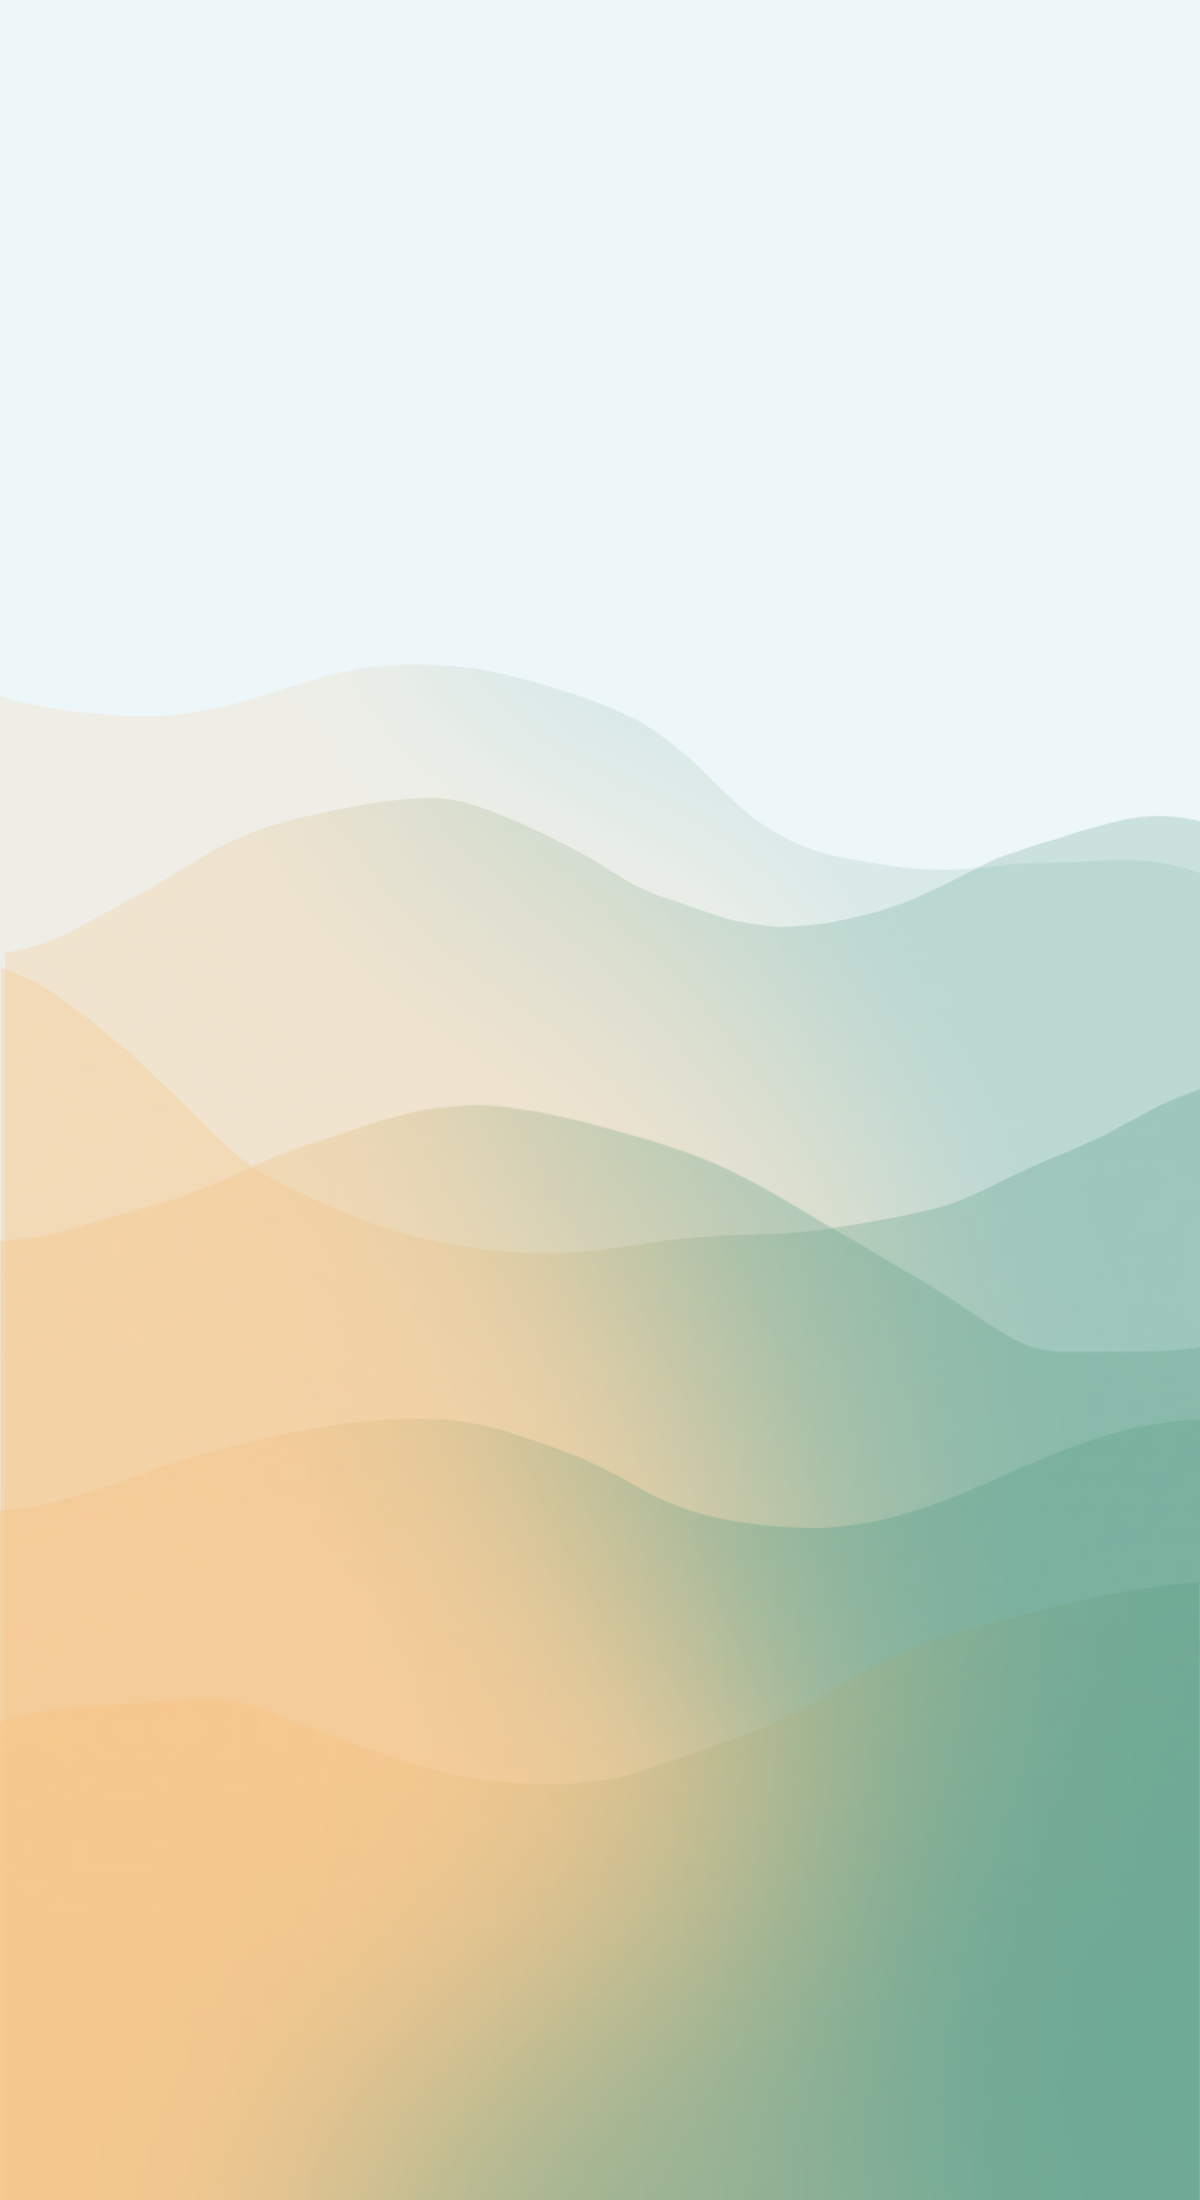
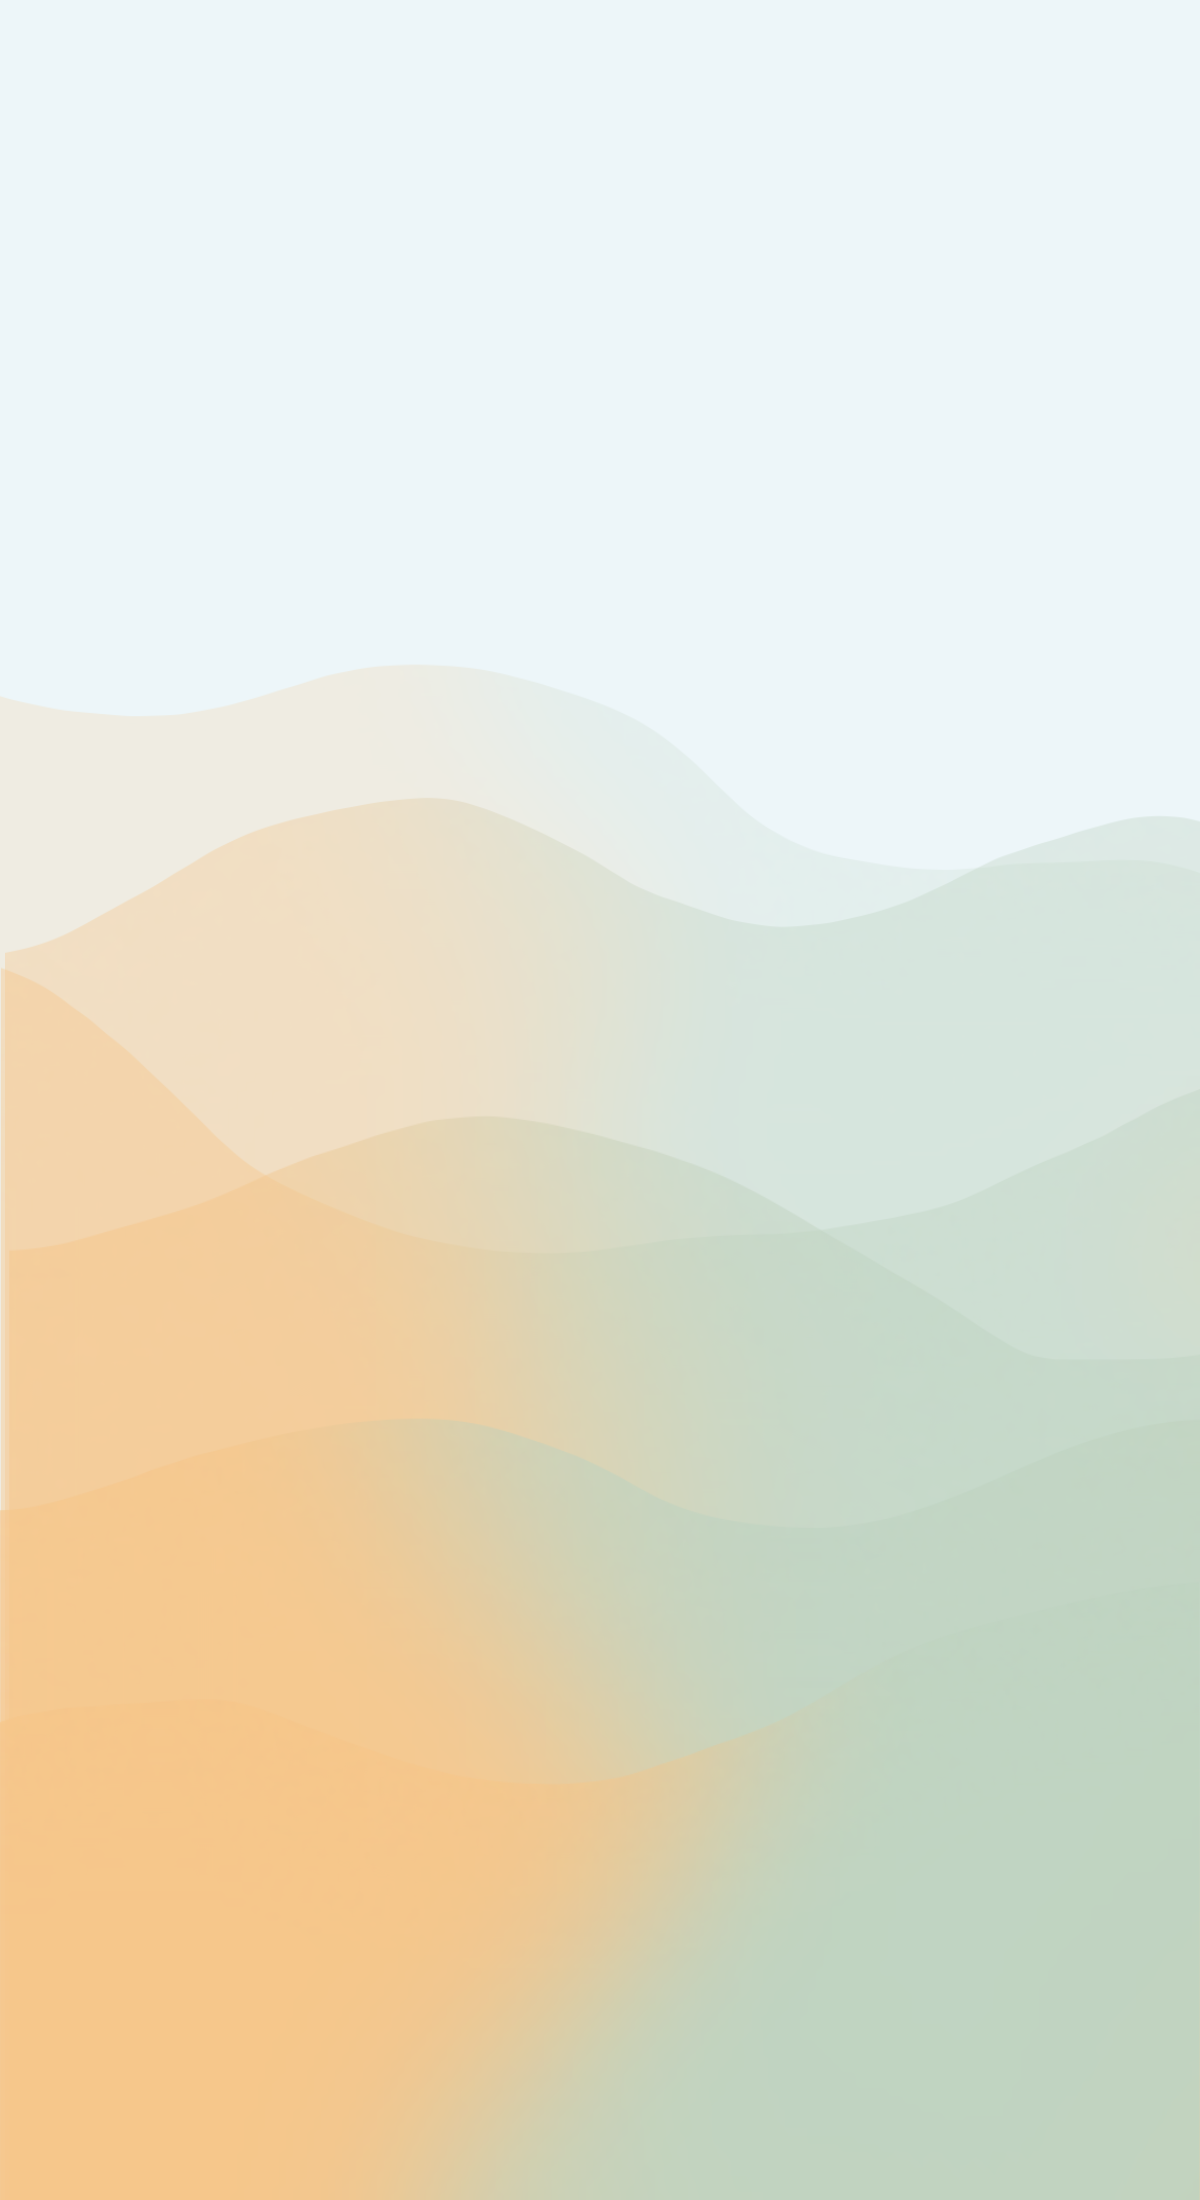
UI jatkoa kyselyn luomiseen

Changed region(s): [[0.2467, 0.3709, 1.0, 1.0], [0.4625, 0.4945, 0.555, 0.5255]]

diff --git a/bachelors-project-2021/Prototype/Prototype/LuoKysely/LuoKyselyToimenpiteet.xaml b/bachelors-project-2021/Prototype/Prototype/LuoKysely/LuoKyselyToimenpiteet.xaml
@@ -24,7 +24,24 @@ along with Juttunurkka.  If not, see <https://www.gnu.org/licenses/>.
              Title="Juttunurkka"
              >
 
-    <StackLayout Spacing="40">
+    <AbsoluteLayout
+        HorizontalOptions="FillAndExpand"
+        VerticalOptions="FillAndExpand"
+        Padding="0">
+
+        <!-- TAUSTAKUVA SIVULLE -->
+        <Image
+            Source="background2.png"
+            Aspect="AspectFill"
+            HorizontalOptions="Fill"
+            VerticalOptions="Fill"
+            AbsoluteLayout.LayoutBounds="0, 0, 1, 1"
+            AbsoluteLayout.LayoutFlags="All" />
+
+        <StackLayout
+            AbsoluteLayout.LayoutBounds="0, 0, 1, 1"
+            AbsoluteLayout.LayoutFlags="All"
+            Spacing="40">
         <StackLayout Orientation="Horizontal"
                      VerticalOptions="Start"
                      HorizontalOptions="CenterAndExpand"
@@ -36,8 +53,9 @@ along with Juttunurkka.  If not, see <https://www.gnu.org/licenses/>.
               HorizontalOptions="CenterAndExpand"
               HorizontalTextAlignment="Center"
               FontAttributes="Bold"
+              FontFamily="LineSeedBold"
               FontSize="30"
-              TextColor="#4383EF" 
+              TextColor="#4383EF"
               Margin="0,40,0,0"/>
            
             <Image Source="Emoji2.jpg"
@@ -52,6 +70,7 @@ along with Juttunurkka.  If not, see <https://www.gnu.org/licenses/>.
             VerticalOptions="Start" 
             HorizontalOptions="CenterAndExpand"
             HorizontalTextAlignment="Center"
+            FontFamily="LineSeedBold"
             FontSize="25"
             TextColor="Black"   
             Margin="0,-20,0,0"
@@ -67,9 +86,10 @@ along with Juttunurkka.  If not, see <https://www.gnu.org/licenses/>.
         <Button Text="Vaihtoehdot"
             TextColor="black"
             FontAttributes="Bold"
+            FontFamily="LineSeedBold"
             VerticalOptions="CenterAndExpand" 
             HorizontalOptions="CenterAndExpand" 
-            BorderColor="#4383EF"
+            BorderColor="#bfd3c1"
             BackgroundColor="Transparent"
             FontSize="19"
             Margin="20,0,10,-40"
@@ -89,7 +109,7 @@ along with Juttunurkka.  If not, see <https://www.gnu.org/licenses/>.
             HeightRequest="200"
             Padding="1"
             BackgroundColor="Transparent"
-            BorderColor="#4383EF"
+            BorderColor="#bfd3c1"
             CornerRadius="10"
             IsVisible="true">
 
@@ -121,6 +141,7 @@ along with Juttunurkka.  If not, see <https://www.gnu.org/licenses/>.
                                             <Label 
                                                     Text="{Binding .}" 
                                                     TextColor="Black"
+                                                    FontFamily="LineSeedBold"
                                                     FontSize="20"
                                                     Margin="5,10,0,5"
                                                 />
@@ -161,6 +182,7 @@ along with Juttunurkka.  If not, see <https://www.gnu.org/licenses/>.
                 Clicked="EdellinenButtonClicked"
                 VerticalOptions="EndAndExpand"
                 HorizontalOptions="CenterAndExpand" 
+                FontFamily="LineSeedBold"
                 FontSize="19"
                 Margin="20,0,10,40"
                 CornerRadius="10"
@@ -173,6 +195,7 @@ along with Juttunurkka.  If not, see <https://www.gnu.org/licenses/>.
                 Clicked="JatkaButtonClicked" 
                 VerticalOptions="EndAndExpand" 
                 HorizontalOptions="CenterAndExpand" 
+                FontFamily="LineSeedBold"
                 FontSize="19"
                 Margin="20,0,10,40"
                 CornerRadius="10"
@@ -181,6 +204,7 @@ along with Juttunurkka.  If not, see <https://www.gnu.org/licenses/>.
             />
         </Grid>
 
-    </StackLayout>
+        </StackLayout>
+    </AbsoluteLayout>
 
 </ContentPage>

diff --git a/bachelors-project-2021/Prototype/Prototype/LuoKysely/LuoKyselyEmojit.xaml b/bachelors-project-2021/Prototype/Prototype/LuoKysely/LuoKyselyEmojit.xaml
@@ -25,7 +25,25 @@ along with Juttunurkka.  If not, see <https://www.gnu.org/licenses/>.
              Title="Juttunurkka">
 
 
-    <StackLayout VerticalOptions="FillAndExpand" Spacing="50" Padding="0,100,0,0">
+    <AbsoluteLayout
+        HorizontalOptions="FillAndExpand"
+        VerticalOptions="FillAndExpand">
+
+        <!-- TAUSTAKUVA SIVULLE -->
+        <Image
+            Source="background2.png"
+            Aspect="AspectFill"
+            HorizontalOptions="Fill"
+            VerticalOptions="Fill"
+            AbsoluteLayout.LayoutBounds="0, 0, 1, 1"
+            AbsoluteLayout.LayoutFlags="All" />
+
+        <StackLayout
+            AbsoluteLayout.LayoutBounds="0, 0, 1, 1"
+            AbsoluteLayout.LayoutFlags="All"
+            VerticalOptions="FillAndExpand"
+            Spacing="50"
+            Padding="0,100,0,0">
 
         <Label
             Text="Valitse hymiöt"
@@ -35,6 +53,7 @@ along with Juttunurkka.  If not, see <https://www.gnu.org/licenses/>.
             FontAttributes="Bold"
             FontSize="35"
             TextColor="Black" 
+            FontFamily="LineSeedBold"
             Margin="0,0,0,0"
         />
 
@@ -45,7 +64,6 @@ along with Juttunurkka.  If not, see <https://www.gnu.org/licenses/>.
             <CollectionView.ItemTemplate>
                 <DataTemplate>
                     <Frame Padding="15"
-                           BorderColor="#4383EF"
                            CornerRadius="5"
                            Margin="10,10,10,10">   
                         <Grid RowDefinitions="Auto"
@@ -87,10 +105,11 @@ along with Juttunurkka.  If not, see <https://www.gnu.org/licenses/>.
                 Clicked="EdellinenButtonClicked"
                 VerticalOptions="EndAndExpand"
                 HorizontalOptions="CenterAndExpand" 
-                BackgroundColor="#feba4f"
+                BackgroundColor="#bfd3c1"
                 TextColor="Black"
                 BorderColor="Transparent"
                 FontSize="19"
+                FontFamily="LineSeedBold"
                 Margin="20,0,10,40"
                 CornerRadius="10"
                 HeightRequest="50"
@@ -105,8 +124,9 @@ along with Juttunurkka.  If not, see <https://www.gnu.org/licenses/>.
                 IsEnabled="false"
                 VerticalOptions="EndAndExpand" 
                 HorizontalOptions="CenterAndExpand" 
-                BackgroundColor="#feba4e"
+                BackgroundColor="#bfd3c1"
                 TextColor="Black"
+                FontFamily="LineSeedBold"
                 FontAttributes="Bold"
                 BorderColor="Transparent"
                 FontSize="19"
@@ -118,5 +138,6 @@ along with Juttunurkka.  If not, see <https://www.gnu.org/licenses/>.
             />
 
         </Grid>
-    </StackLayout>
+        </StackLayout>
+    </AbsoluteLayout>
 </ContentPage>

diff --git a/bachelors-project-2021/Prototype/Prototype/TallennetutKyselyt/TallennetutKyselyt.xaml b/bachelors-project-2021/Prototype/Prototype/TallennetutKyselyt/TallennetutKyselyt.xaml
@@ -15,7 +15,7 @@ This file is part of "Juttunurkka".
     <Grid VerticalOptions="FillAndExpand" HorizontalOptions="FillAndExpand">
 
         <!-- TAUSTAKUVA -->
-        <Image Source="background2.png"
+        <Image Source="background3.png"
                Aspect="AspectFill"
                VerticalOptions="FillAndExpand"
                HorizontalOptions="FillAndExpand"/>
@@ -23,14 +23,14 @@ This file is part of "Juttunurkka".
         <!-- PÄÄSISÄLTÖ -->
         <StackLayout Spacing="15" Padding="20,20,20,20" VerticalOptions="FillAndExpand">
 
-            <!-- NAVIGATION / TAKAS-NAPPI JA OTSIKKO -->
+            <!-- NAVIGATION / TAKAISIN-NAPPI JA OTSIKKO -->
             <Grid HeightRequest="40">
                 <Grid.ColumnDefinitions>
                     <ColumnDefinition Width="Auto"/>
                     <ColumnDefinition Width="*"/>
                 </Grid.ColumnDefinitions>
 
-                <!-- TAKAS-NAPPI vasemmassa yläkulmassa -->
+                <!-- TAKAISIN-NAPPI vasemmassa yläkulmassa -->
                 <ImageButton Source="back_btn.png"
                              BackgroundColor="Transparent"
                              Clicked="BackBtnClicked"

diff --git a/bachelors-project-2021/Prototype/Prototype/LuoKysely/LuoKyselyJohdatus.xaml b/bachelors-project-2021/Prototype/Prototype/LuoKysely/LuoKyselyJohdatus.xaml
@@ -31,6 +31,8 @@ along with Juttunurkka.  If not, see <https://www.gnu.org/licenses/>.
         <!-- TAUSTAKUVA (alimmaisena) -->
         <Image Source="background2.png"
                Aspect="AspectFill"
+               HorizontalOptions="Fill"
+               VerticalOptions="Fill"
                Grid.RowSpan="5"
                Grid.ColumnSpan="1" />
 

diff --git a/bachelors-project-2021/Prototype/Prototype/Kirjautuminen.xaml b/bachelors-project-2021/Prototype/Prototype/Kirjautuminen.xaml
@@ -29,7 +29,7 @@ along with Juttunurkka.  If not, see <https://www.gnu.org/licenses/>.
 
         <!-- TAUSTAKUVA SIVULLE -->
         <Image
-            Source="background2.png"
+            Source="background3.png"
             Aspect="AspectFill"
             HorizontalOptions="Fill"
             VerticalOptions="Fill"/>

diff --git a/bachelors-project-2021/Prototype/Prototype/LuoKysely/Opettajanhuone.xaml b/bachelors-project-2021/Prototype/Prototype/LuoKysely/Opettajanhuone.xaml
@@ -28,7 +28,7 @@ along with Juttunurkka.  If not, see <https://www.gnu.org/licenses/>.
 
         <!-- TAUSTAKUVA -->
         <Image
-            Source="background2.png"
+            Source="background3.png"
             Aspect="AspectFill"
             HorizontalOptions="Fill"
             VerticalOptions="Fill" />
